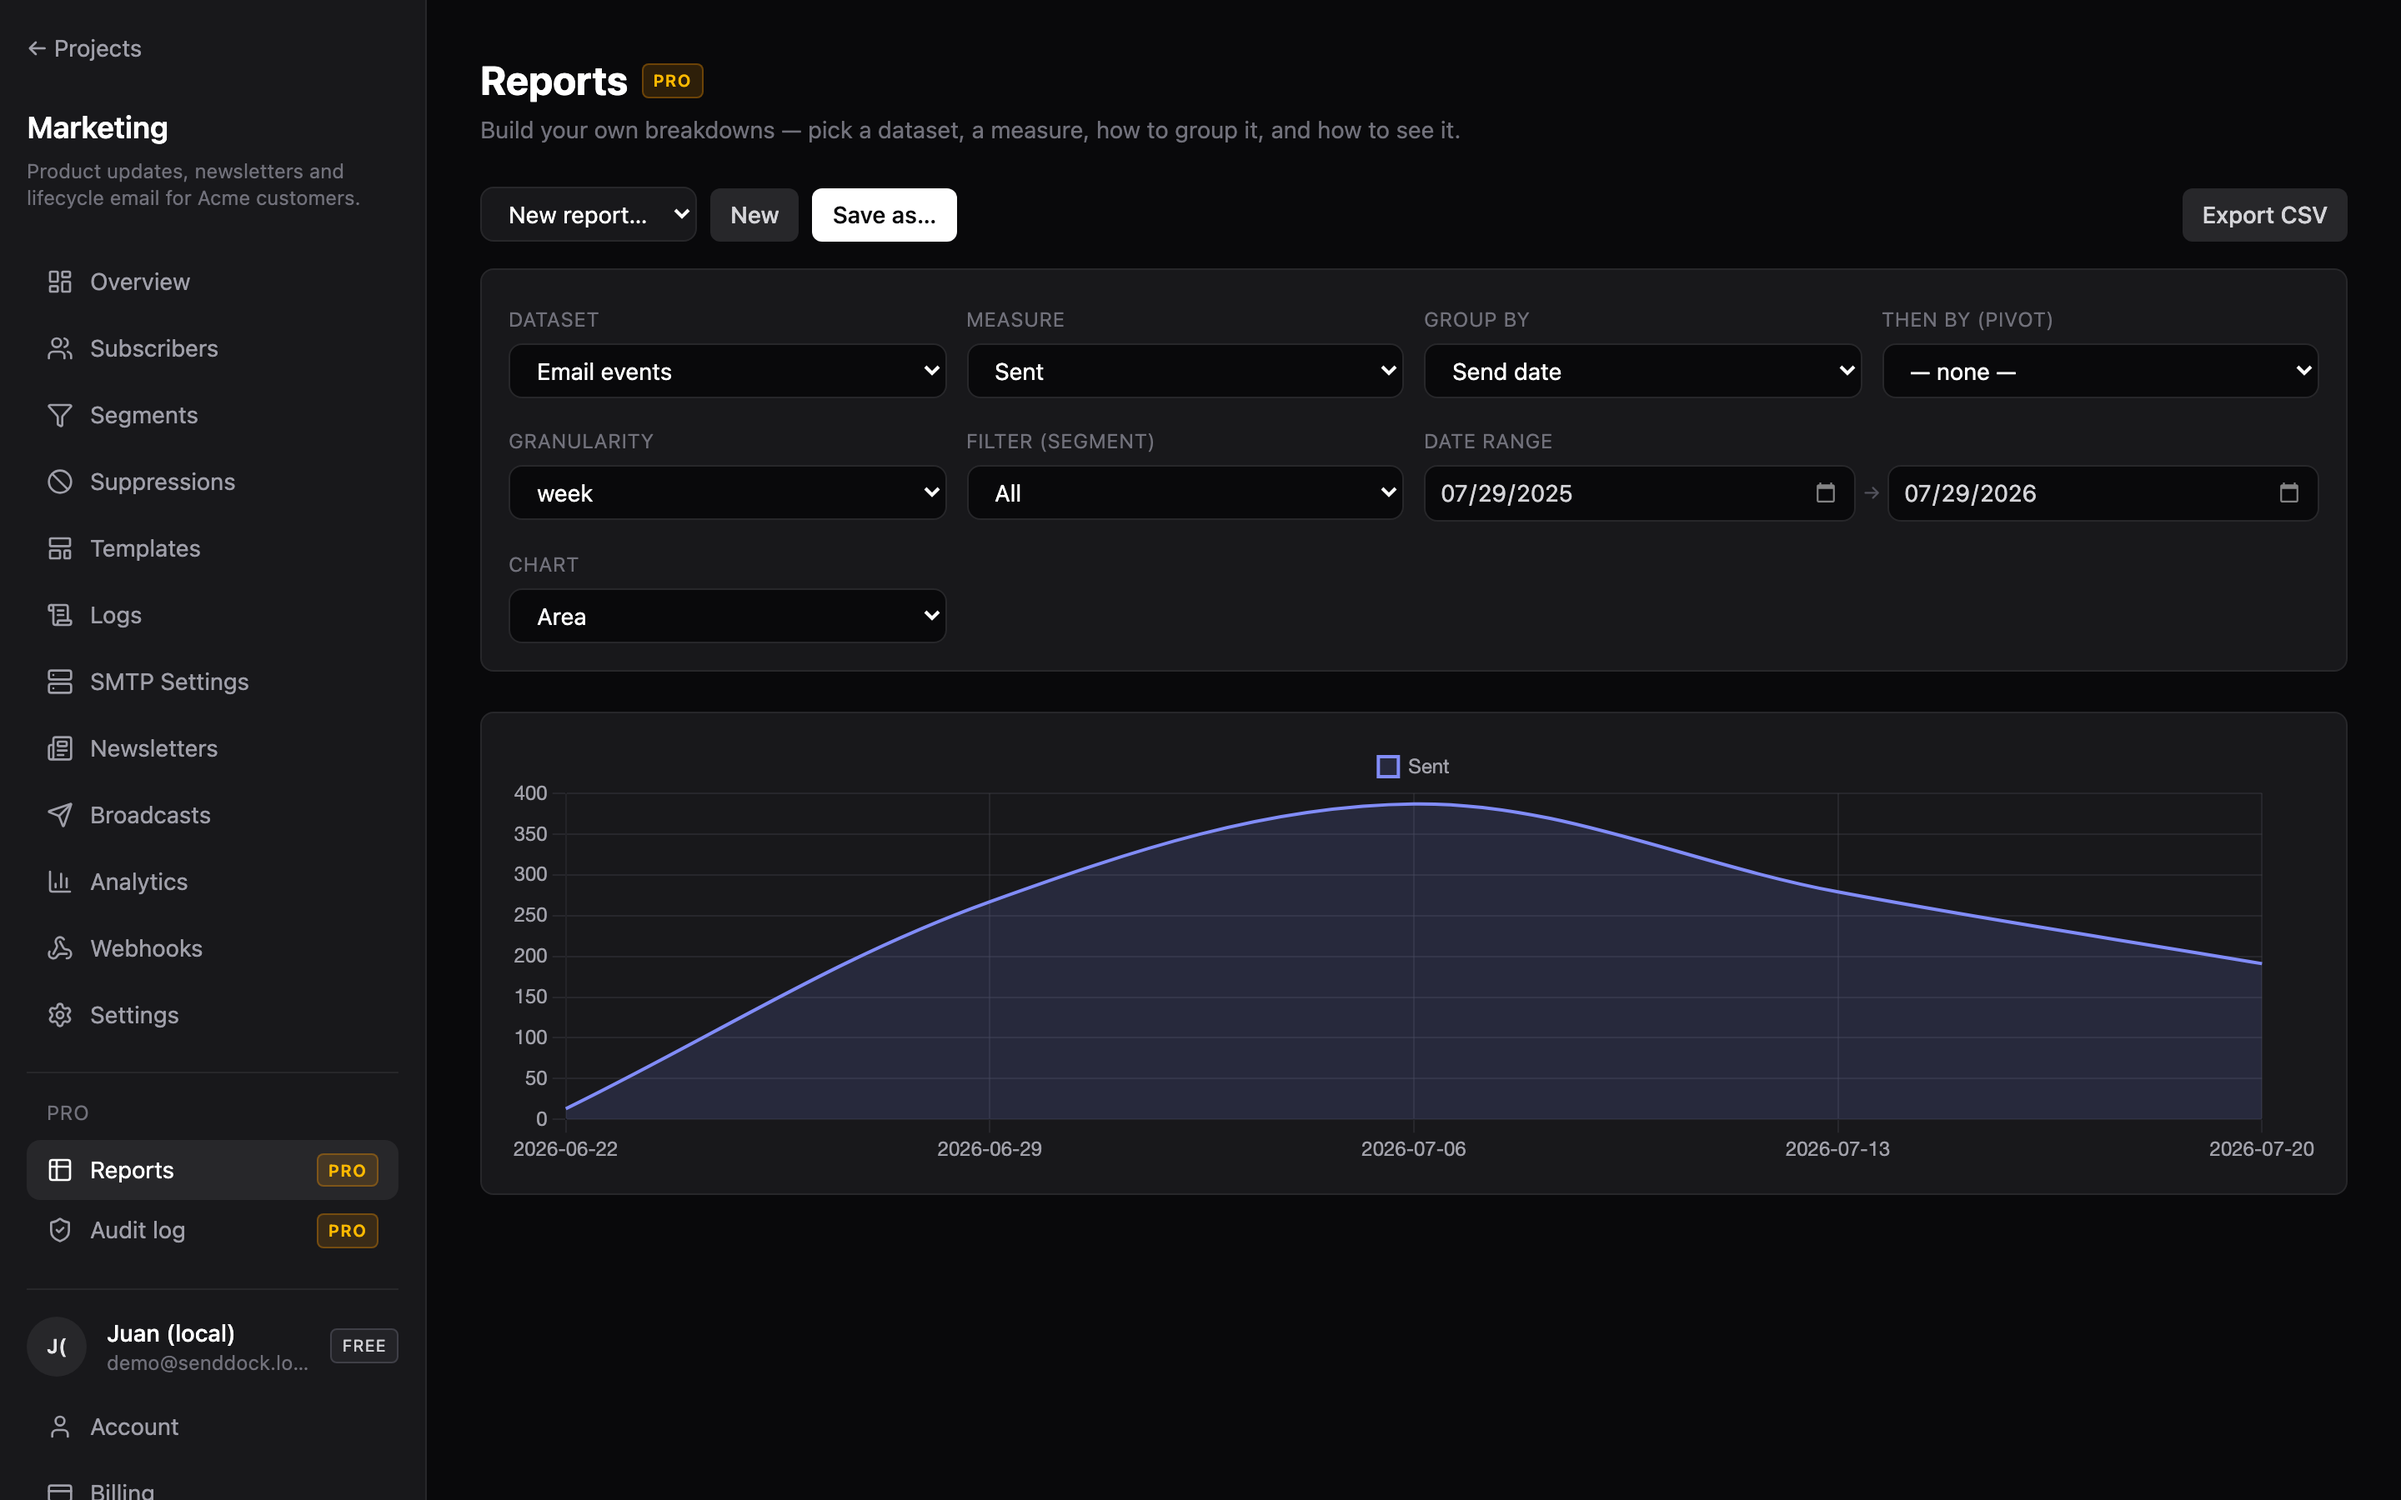
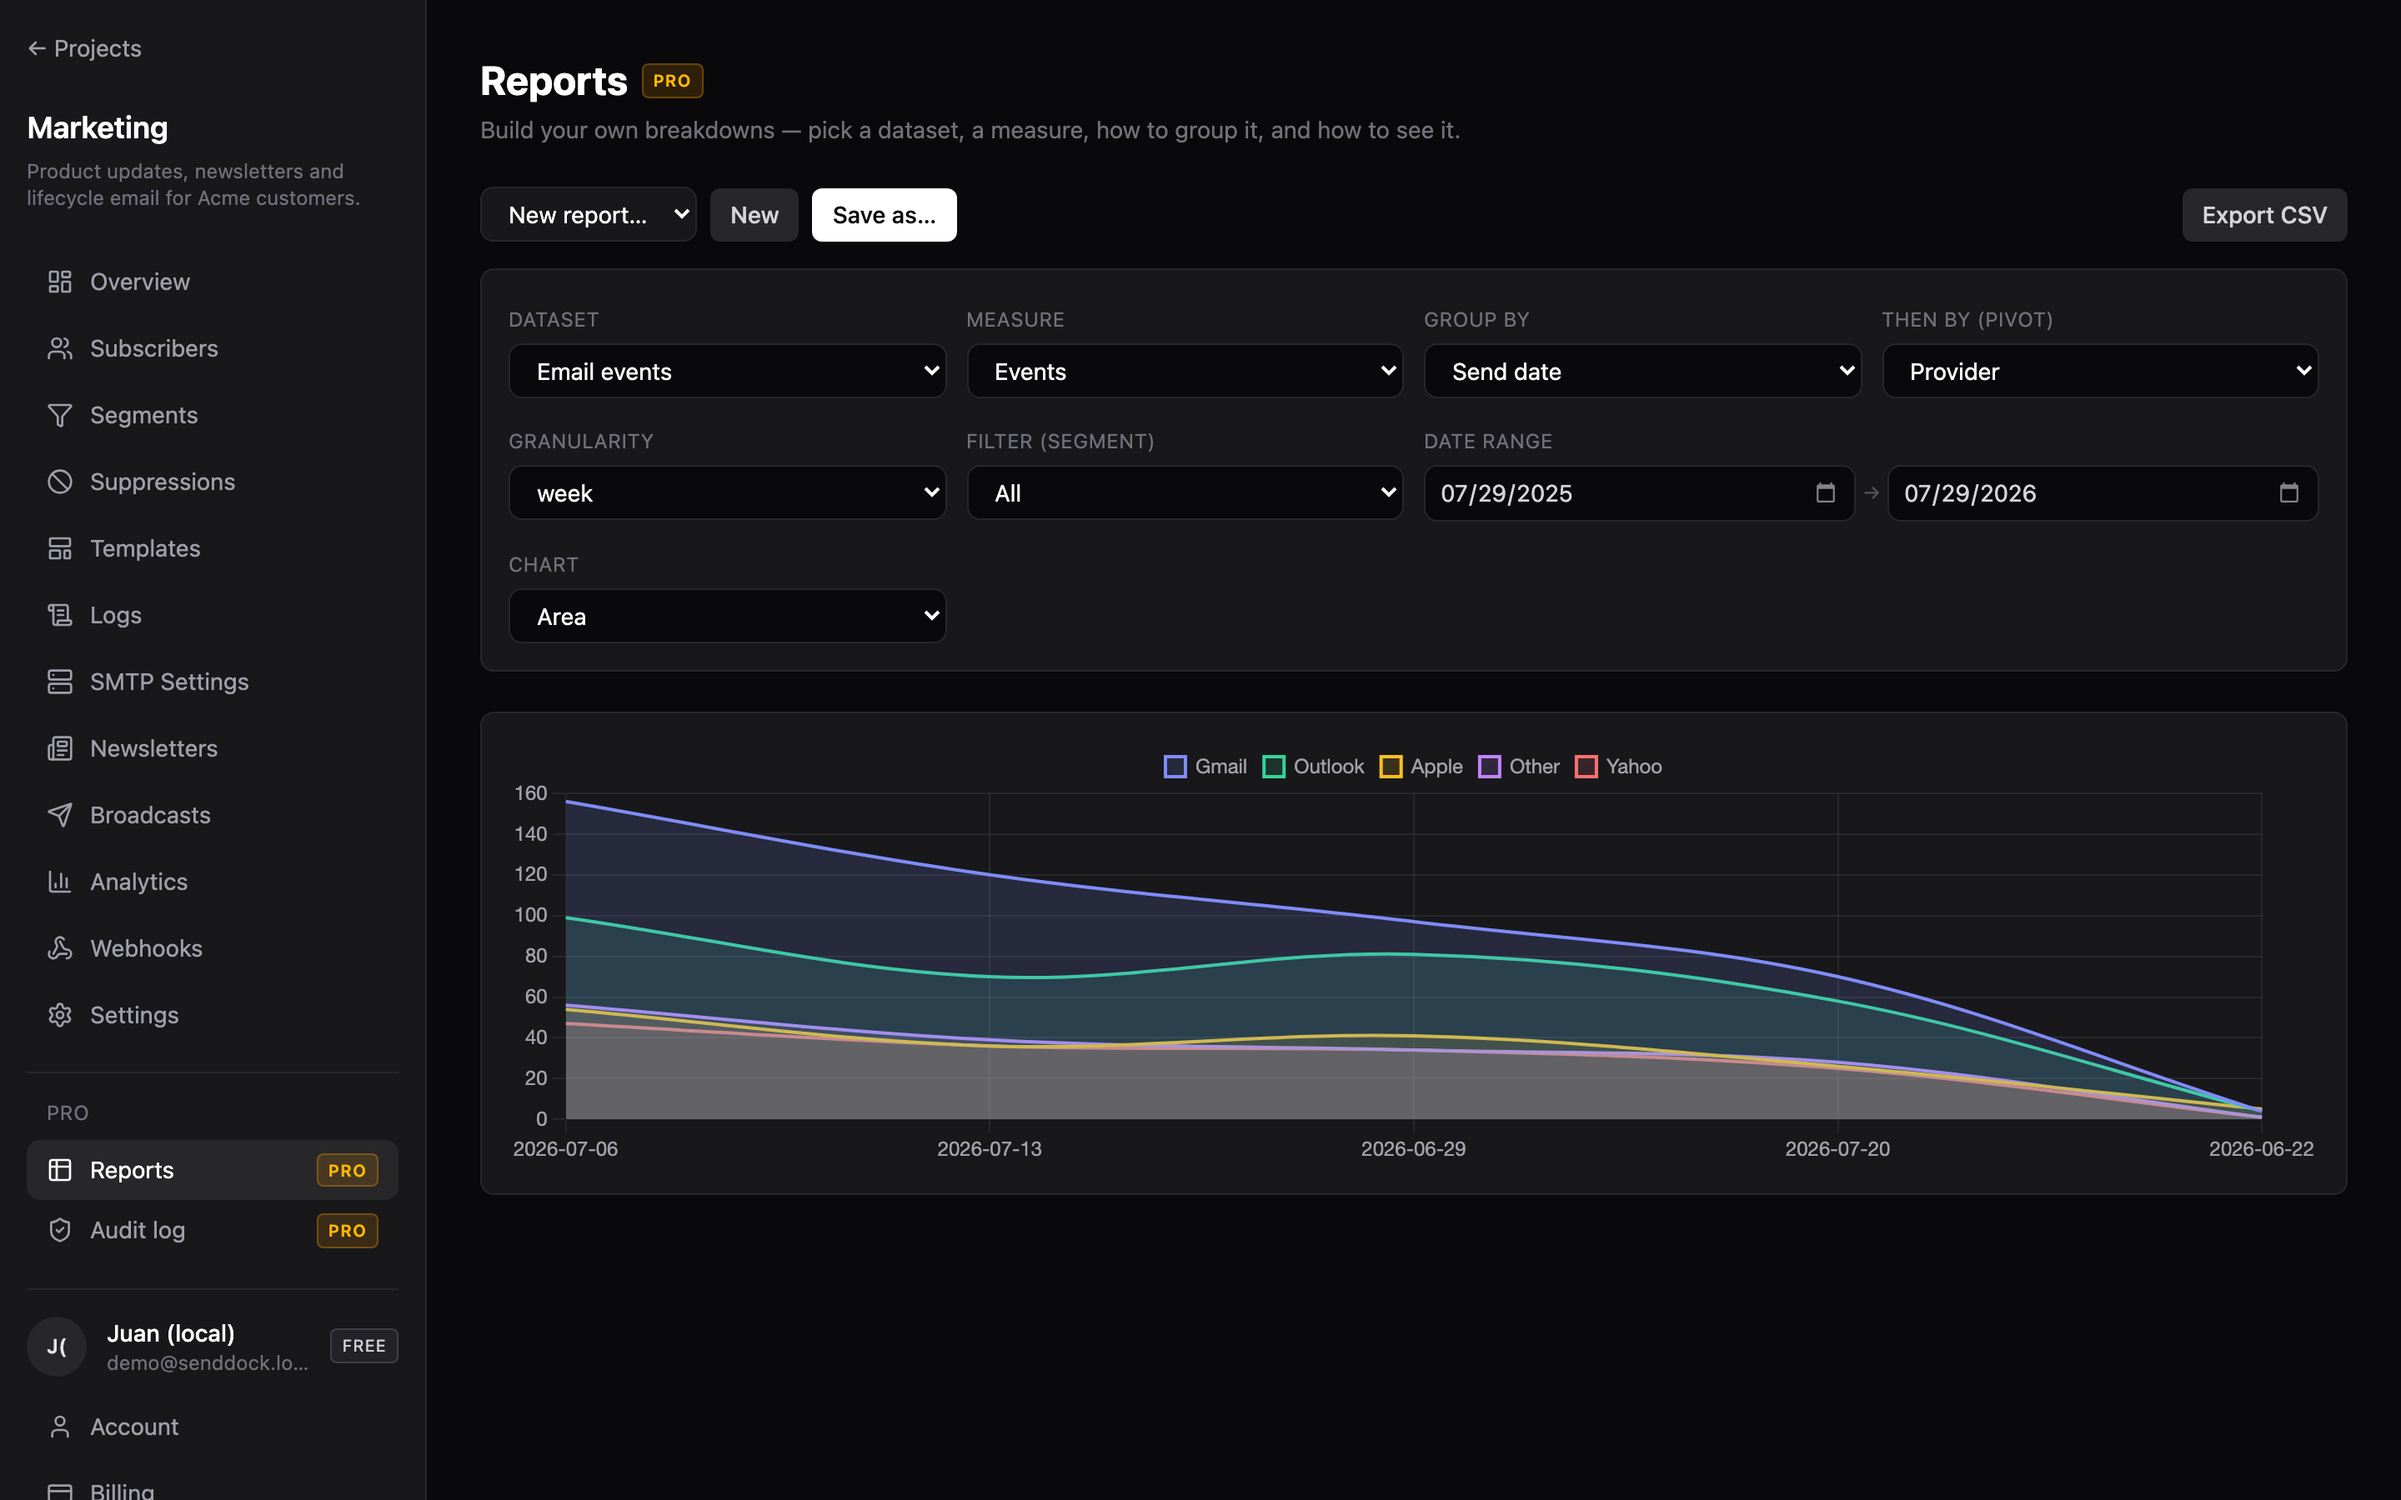
docs: make the Reports chart examples multi-series
Swap the single-series bar/area for richer two-dimension charts: a stacked
bar (email volume by provider split by status) as the hero, and a
multi-series area (sends per provider over time), so the examples look like
real, interesting reports.

Changed region(s): [[0.2188, 0.4978, 0.9688, 0.7467]]

diff --git a/docs/guide/reports.md b/docs/guide/reports.md
@@ -4,7 +4,7 @@ The Analytics tabs answer fixed questions. **Reports** lets you ask your own —
 
 It's a Pro section in the project sidebar: **Project → Reports**.
 
-![Report builder](/screenshots/reports.png)
+![The report builder showing email volume by provider, split by status, as a stacked bar](/screenshots/reports.png)
 
 ## Building a report
 
@@ -32,15 +32,15 @@ The same query renders as whatever chart fits the question — switch it live fr
 
 ![A report drawn as a donut chart](/screenshots/reports-donut.png)
 
-**Area / line** — a trend over time, e.g. emails sent per week:
+**Area / line** — a multi-series trend over time. Add a second dimension and each value becomes its own series — here, sends per provider, week by week:
 
-![A report drawn as an area chart over time](/screenshots/reports-area.png)
+![A multi-series area chart, one series per provider over time](/screenshots/reports-area.png)
 
 **Pivot** — a two-dimension matrix, e.g. open rate by provider across months:
 
 ![A two-dimension report drawn as a pivot table](/screenshots/reports-pivot.png)
 
-...and **bar** (shown above), **stacked bar**, **pie** and a raw **table** round out the set. Pick the one that makes your point.
+The **stacked bar** at the top of this page (email volume per provider, split by status) and the **pie** and raw **table** round out the set. Pick the one that makes your point.
 
 ## Saving & exporting
 
